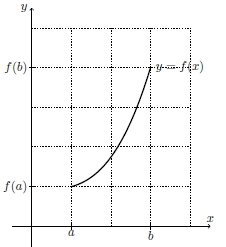
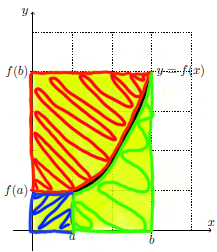
no

diff --git a/Week 4.tex b/Week 4.tex
@@ -147,7 +147,12 @@ Problem 3 on Page 4. $\rightarrow$
         \int_a^b\!f(x)dx&=bf(b)-af(a)-\int_{f(a)}^{f(b)}\!g(y)\,d
     \end{align*}
     Thus we have shown that the equation on $(b)$ is true.
-    \item 
+    \item My graph is below.
+    \begin{figure}[H]
+        \centering
+        \includegraphics{highlighter.png}
+    \end{figure}
+    Now I will talk about the different aspects of the graph and why they are shaded a certain way. The 
 \end{enumerate}
 
 
